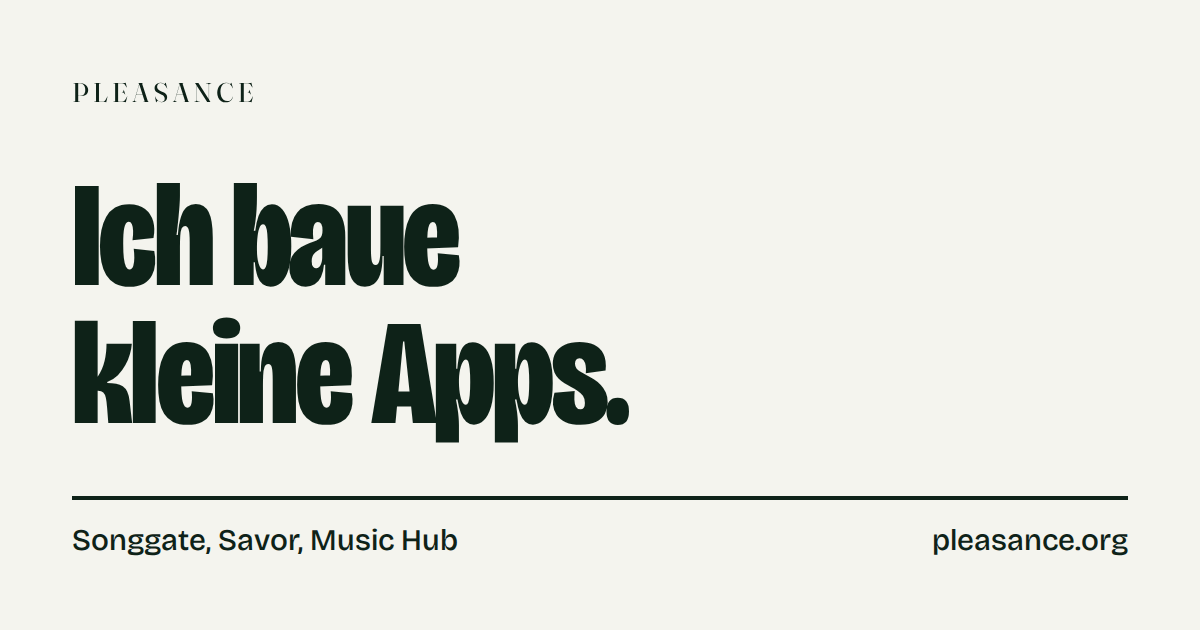
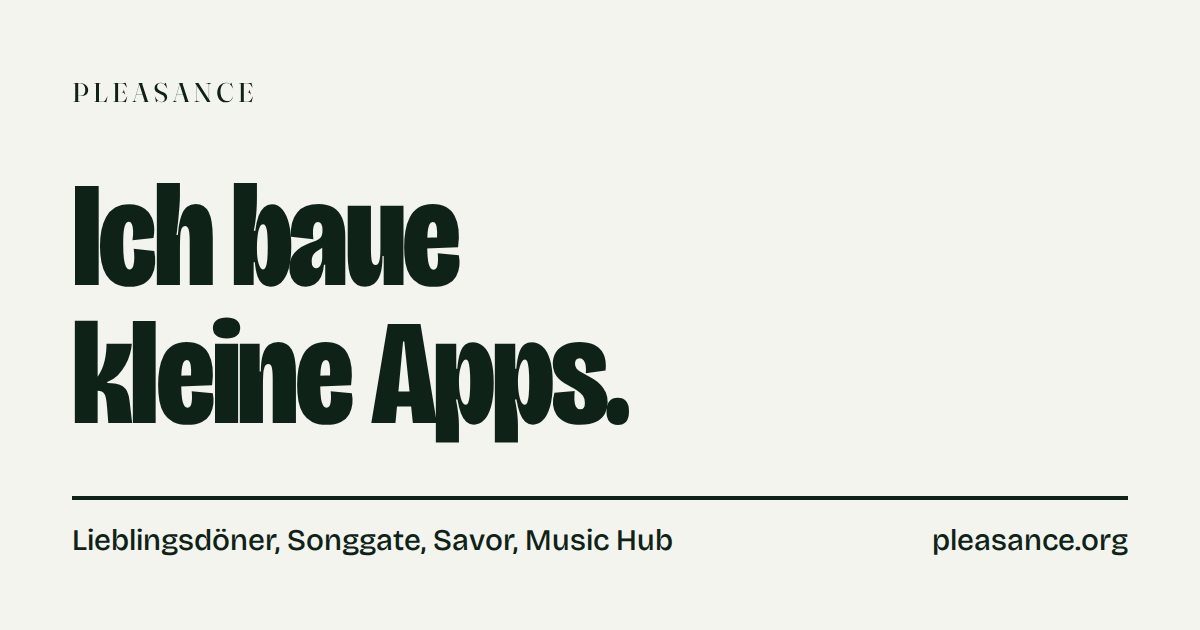
Feature Lieblingsdöner first, now live in both app stores

Changed region(s): [[0.0617, 0.8444, 0.5858, 0.9048]]

diff --git a/index.html b/index.html
@@ -4,7 +4,7 @@
   <meta charset="UTF-8">
   <meta name="viewport" content="width=device-width, initial-scale=1.0">
   <title>Kleine Apps von Robin Wahl — Pleasance</title>
-  <meta name="description" content="Songgate, Savor und Music Hub: kleine Open-Source-Apps von Robin Wahl aus Freiburg, mit KI-Agenten gebaut und selbst betrieben.">
+  <meta name="description" content="Lieblingsdöner, Songgate, Savor und Music Hub: kleine Open-Source-Apps von Robin Wahl aus Freiburg, mit KI-Agenten gebaut und selbst betrieben.">
   <link rel="canonical" href="https://pleasance.org/">
   <link rel="icon" href="favicon.ico" sizes="32x32">
   <link rel="icon" href="favicon.svg" type="image/svg+xml">
@@ -13,11 +13,11 @@
   <meta property="og:locale" content="de_DE">
   <meta property="og:url" content="https://pleasance.org/">
   <meta property="og:title" content="Kleine Apps von Robin Wahl — Pleasance">
-  <meta property="og:description" content="Songgate, Savor und Music Hub: kleine Open-Source-Apps von Robin Wahl aus Freiburg, mit KI-Agenten gebaut und selbst betrieben.">
+  <meta property="og:description" content="Lieblingsdöner, Songgate, Savor und Music Hub: kleine Open-Source-Apps von Robin Wahl aus Freiburg, mit KI-Agenten gebaut und selbst betrieben.">
   <meta property="og:image" content="https://pleasance.org/img/og.png">
-  <meta property="og:image:alt" content="Pleasance: Ich baue kleine Apps. Songgate, Savor, Music Hub.">
+  <meta property="og:image:alt" content="Pleasance: Ich baue kleine Apps. Lieblingsdöner, Songgate, Savor, Music Hub.">
   <meta name="twitter:card" content="summary_large_image">
-  <link rel="stylesheet" href="style.css?v=20261126a">
+  <link rel="stylesheet" href="style.css?v=20261127a">
   <script>(function(){var t=localStorage.getItem('pleasance-theme');if(t==='dark'||(t===null&&matchMedia('(prefers-color-scheme: dark)').matches))document.documentElement.dataset.theme='dark';})();</script>
   <script type="application/ld+json">
   {
@@ -67,6 +67,27 @@
         <h1 class="display page-title" data-i18n="home.h1">Ich baue kleine Apps.</h1>
         <p class="lead" data-i18n="home.lead">Robin Wahl aus Freiburg. Lebenslauf auf <a href="https://www.linkedin.com/in/robinwahl359">LinkedIn</a>.</p>
       </header>
+
+      <section class="section app" id="doener" aria-labelledby="h-doener">
+        <div>
+          <img class="app__icon" src="img/werkzeuge/doener.svg" alt="" width="72" height="72">
+          <h2 class="heading" id="h-doener">Lieblingsdöner</h2>
+          <p class="app__tagline" data-i18n="apps.doener.tagline">Der beste Döner deiner Stadt.</p>
+        </div>
+        <div>
+          <p class="app__text" data-i18n="apps.doener.text">Leute aus deiner Gegend bewerten Soße, Fleisch, Salat und Brot, daraus entsteht das Ranking der Stadt. Neu im App Store und bei Google Play.</p>
+          <div class="app__links">
+            <a class="btn" href="https://apps.apple.com/app/id6792510350">App Store</a>
+            <a class="btn" href="https://play.google.com/store/apps/details?id=com.robinchoice.doener">Google Play</a>
+            <a class="btn btn--ghost" href="https://doener-api.pleasance.org" data-i18n="apps.doener.web">Im Browser</a>
+            <a href="https://github.com/robinchoice/doenerapp" data-i18n="apps.code">Quellcode</a>
+          </div>
+          <div class="shots">
+            <a class="shot shot--desktop" href="img/apps/doener-desktop.webp"><img src="img/apps/doener-desktop.webp" data-en-src="img/apps/doener-desktop-en.webp" alt="Lieblingsdöner, Desktop" width="1440" height="900" loading="lazy"></a>
+            <a class="shot shot--phone" href="img/apps/doener-phone.webp"><img src="img/apps/doener-phone.webp" data-en-src="img/apps/doener-phone-en.webp" alt="Lieblingsdöner, Smartphone" width="780" height="1688" loading="lazy"></a>
+          </div>
+        </div>
+      </section>
 
       <section class="section app" id="songgate" aria-labelledby="h-songgate">
         <div>
@@ -143,7 +164,7 @@
 
   <script src="vendor/sentry-11.4.0.min.js"></script>
   <script src="monitoring.js"></script>
-  <script src="i18n.js?v=20261126a"></script>
+  <script src="i18n.js?v=20261127a"></script>
   <script src="main.js?v=20261126a"></script>
 
 </body>

diff --git a/i18n.js b/i18n.js
@@ -8,8 +8,8 @@ const I18N_META = {
       en: 'Small apps by Robin Wahl — Pleasance',
     },
     desc: {
-      de: 'Songgate, Savor und Music Hub: kleine Open-Source-Apps von Robin Wahl aus Freiburg, mit KI-Agenten gebaut und selbst betrieben.',
-      en: 'Songgate, Savor and Music Hub: small open source apps by Robin Wahl from Freiburg, Germany, built with AI agents and self-hosted.',
+      de: 'Lieblingsdöner, Songgate, Savor und Music Hub: kleine Open-Source-Apps von Robin Wahl aus Freiburg, mit KI-Agenten gebaut und selbst betrieben.',
+      en: 'Lieblingsdöner, Songgate, Savor and Music Hub: small open source apps by Robin Wahl from Freiburg, Germany, built with AI agents and self-hosted.',
     },
   },
 };
@@ -37,6 +37,14 @@ const I18N = {
 
   apps: {
     code: { de: 'Quellcode', en: 'Source code' },
+    doener: {
+      tagline: { de: 'Der beste Döner deiner Stadt.', en: 'The best döner in your city.' },
+      text: {
+        de: 'Leute aus deiner Gegend bewerten Soße, Fleisch, Salat und Brot, daraus entsteht das Ranking der Stadt. Neu im App Store und bei Google Play.',
+        en: 'People near you rate sauce, meat, salad and bread, and that becomes the ranking of your city. New on the App Store and Google Play.',
+      },
+      web: { de: 'Im Browser', en: 'In the browser' },
+    },
     songgate: {
       tagline: { de: 'Musik teilen, egal wer was hört.', en: 'Share music, whatever they listen on.' },
       text: {

diff --git a/AGENTS.md b/AGENTS.md
@@ -2,7 +2,7 @@
 
 ## Zweck & Links
 
-- Website von Pleasance (https://pleasance.org und `www.`): eine Startseite mit den Apps, die live sind (Songgate, Savor, Music Hub als Testzugang auf Anfrage), dazu Impressum, Datenschutz und die AGB für gehostetes Savor. Statisches HTML, CSS und JS ohne Build, dazu eine kleine Bun-API in `api/` (https://api.pleasance.org), die nur noch `/savor/feedback` bedient.
+- Website von Pleasance (https://pleasance.org und `www.`): eine Startseite mit den Apps, die live sind (Lieblingsdöner, Songgate, Savor, Music Hub als Testzugang auf Anfrage), dazu Impressum, Datenschutz und die AGB für gehostetes Savor. Statisches HTML, CSS und JS ohne Build, dazu eine kleine Bun-API in `api/` (https://api.pleasance.org), die nur noch `/savor/feedback` bedient.
 - Coolify auf VPS 1, Projekt `pleasance-website`, Anwendungen `pleasance-site` und `pleasance-api`.
 - Gestaltung: DESIGN.md.
 - `POST /savor/feedback`: Der Bug-Käfer in Savor schickt Meldungen über den lokalen Savor-Daemon hierher, die API legt daraus ein Issue im privaten Repo `robinchoice/savor-feedback` an (Screenshot unter `screenshots/`). Nichts wird gespeichert.
